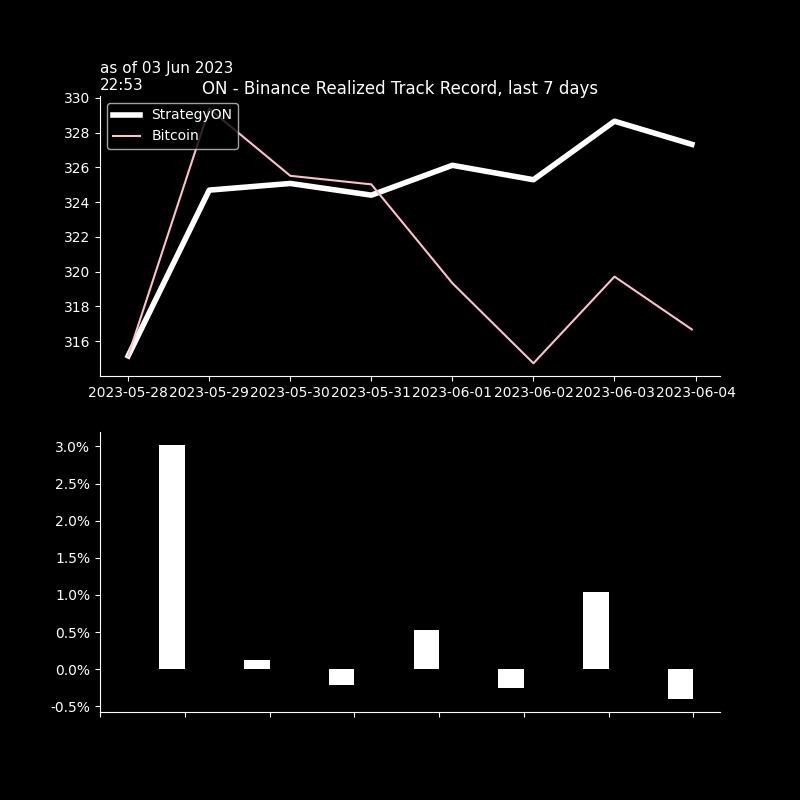
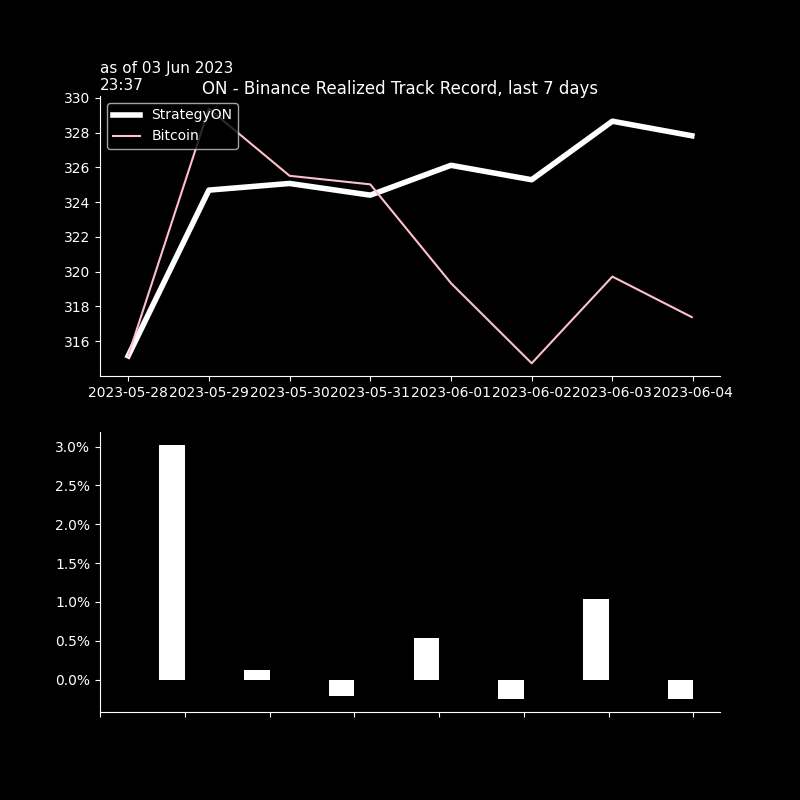
seb_commit

diff --git a/crypto/graphs/bt_trades_book.htmltrade_trades_book.html b/crypto/graphs/bt_trades_book.htmltrade_trades_book.html
@@ -37,55 +37,55 @@
   </thead>
   <tbody>
     <tr>
-      <th>BTCUSDT</th>
-      <td>27157.7000</td>
-      <td>2023-06-03 18:35:40</td>
-      <td>0.006</td>
-      <td>$162.9</td>
-      <td>$0.03</td>
-      <td>1.6</td>
-      <td>0.0</td>
-      <td>27156.25000</td>
-      <td>2023-06-03 19:32</td>
-      <td>-0.0</td>
-      <td>-1.0</td>
-      <td>27155.3</td>
-      <td>-0.0</td>
-      <td>-1.0</td>
-    </tr>
-    <tr>
       <th>XRPUSDT</th>
-      <td>0.5189</td>
-      <td>2023-06-03 18:35:06</td>
-      <td>316.700</td>
-      <td>$164.3</td>
+      <td>0.5193</td>
+      <td>2023-06-03 22:37:14</td>
+      <td>-396.300</td>
+      <td>$-205.8</td>
       <td>$0.03</td>
       <td>1.6</td>
-      <td>0.0</td>
-      <td>0.51895</td>
-      <td>2023-06-03 19:32</td>
-      <td>0.0</td>
-      <td>1.0</td>
-      <td>.5182</td>
+      <td>0.1</td>
+      <td>0.51975</td>
+      <td>2023-06-03 23:31</td>
       <td>-0.2</td>
-      <td>-13.0</td>
+      <td>-9.0</td>
+      <td>.5193</td>
+      <td>0.0</td>
+      <td>0.0</td>
     </tr>
     <tr>
       <th>ETHUSDT</th>
-      <td>1891.9600</td>
-      <td>2023-06-03 18:35:31</td>
-      <td>0.087</td>
-      <td>$164.6</td>
+      <td>1890.4800</td>
+      <td>2023-06-03 22:33:05</td>
+      <td>-0.087</td>
+      <td>$-164.5</td>
       <td>$0.03</td>
       <td>1.6</td>
+      <td>-0.1</td>
+      <td>1890.13500</td>
+      <td>2023-06-03 23:31</td>
       <td>0.0</td>
-      <td>1892.17500</td>
-      <td>2023-06-03 19:32</td>
-      <td>0.0</td>
-      <td>1.0</td>
-      <td>1891.74</td>
+      <td>2.0</td>
+      <td>1888.99</td>
+      <td>0.1</td>
+      <td>8.0</td>
+    </tr>
+    <tr>
+      <th>BTCUSDT</th>
+      <td>27046.0000</td>
+      <td>2023-06-03 22:36:06</td>
+      <td>-0.006</td>
+      <td>$-162.3</td>
+      <td>$0.03</td>
+      <td>1.6</td>
+      <td>-0.7</td>
+      <td>27052.25000</td>
+      <td>2023-06-03 23:31</td>
       <td>-0.0</td>
-      <td>-1.0</td>
+      <td>-2.0</td>
+      <td>27029.6</td>
+      <td>0.1</td>
+      <td>6.0</td>
     </tr>
   </tbody>
 </table>

diff --git a/crypto/graphs/bt_trades_recap.htmltrade_trades_recap.html b/crypto/graphs/bt_trades_recap.htmltrade_trades_recap.html
@@ -9,32 +9,32 @@
   <tbody>
     <tr>
       <th>as of</th>
-      <td>03Jun 18:35&gt;&gt;18:35</td>
+      <td>03Jun 22:33&gt;&gt;22:37</td>
       <td>#trades: 3</td>
     </tr>
     <tr>
       <th>trade net</th>
-      <td>+492.0</td>
-      <td>+149.7%</td>
+      <td>-533.0</td>
+      <td>-162.4%</td>
     </tr>
     <tr>
       <th>trade gross</th>
-      <td>+492.0</td>
-      <td>+149.7%</td>
+      <td>+533.0</td>
+      <td>+162.4%</td>
     </tr>
     <tr>
       <th>BUY</th>
-      <td>+492.0</td>
-      <td>+149.7%</td>
-    </tr>
-    <tr>
-      <th>SELL</th>
       <td>+0.0</td>
       <td>+0.0%</td>
     </tr>
     <tr>
+      <th>SELL</th>
+      <td>-533.0</td>
+      <td>-162.4%</td>
+    </tr>
+    <tr>
       <th>fees</th>
-      <td>$ 0.079</td>
+      <td>$ 0.085</td>
       <td>1.6bp</td>
     </tr>
   </tbody>

diff --git a/crypto/graphs/bt_trades_pnlD_recap.htmltrade_trades_pnlD_recap.html b/crypto/graphs/bt_trades_pnlD_recap.htmltrade_trades_pnlD_recap.html
@@ -1,7 +1,7 @@
 <table border="1" class="dataframe">
   <thead>
     <tr style="text-align: right;">
-      <th>03 Jun 19:35</th>
+      <th>03 Jun 23:37</th>
       <th>realizedPnl</th>
       <th>PnLvsArrival</th>
       <th>PnLvsLast</th>
@@ -10,21 +10,21 @@
   <tbody>
     <tr>
       <th>in$</th>
-      <td>0.0</td>
-      <td>0.0</td>
+      <td>-0.7</td>
       <td>-0.2</td>
+      <td>0.2</td>
     </tr>
     <tr>
-      <th>in bp 491 traded</th>
-      <td>0 bp</td>
-      <td>1 bp</td>
-      <td>-5 bp</td>
+      <th>in bp 532 traded</th>
+      <td>-13 bp</td>
+      <td>-4 bp</td>
+      <td>4 bp</td>
     </tr>
     <tr>
       <th>in bp 328 AUMs</th>
-      <td>0 bp</td>
-      <td>1 bp</td>
-      <td>-8 bp</td>
+      <td>-20 bp</td>
+      <td>-6 bp</td>
+      <td>7 bp</td>
     </tr>
   </tbody>
 </table>
